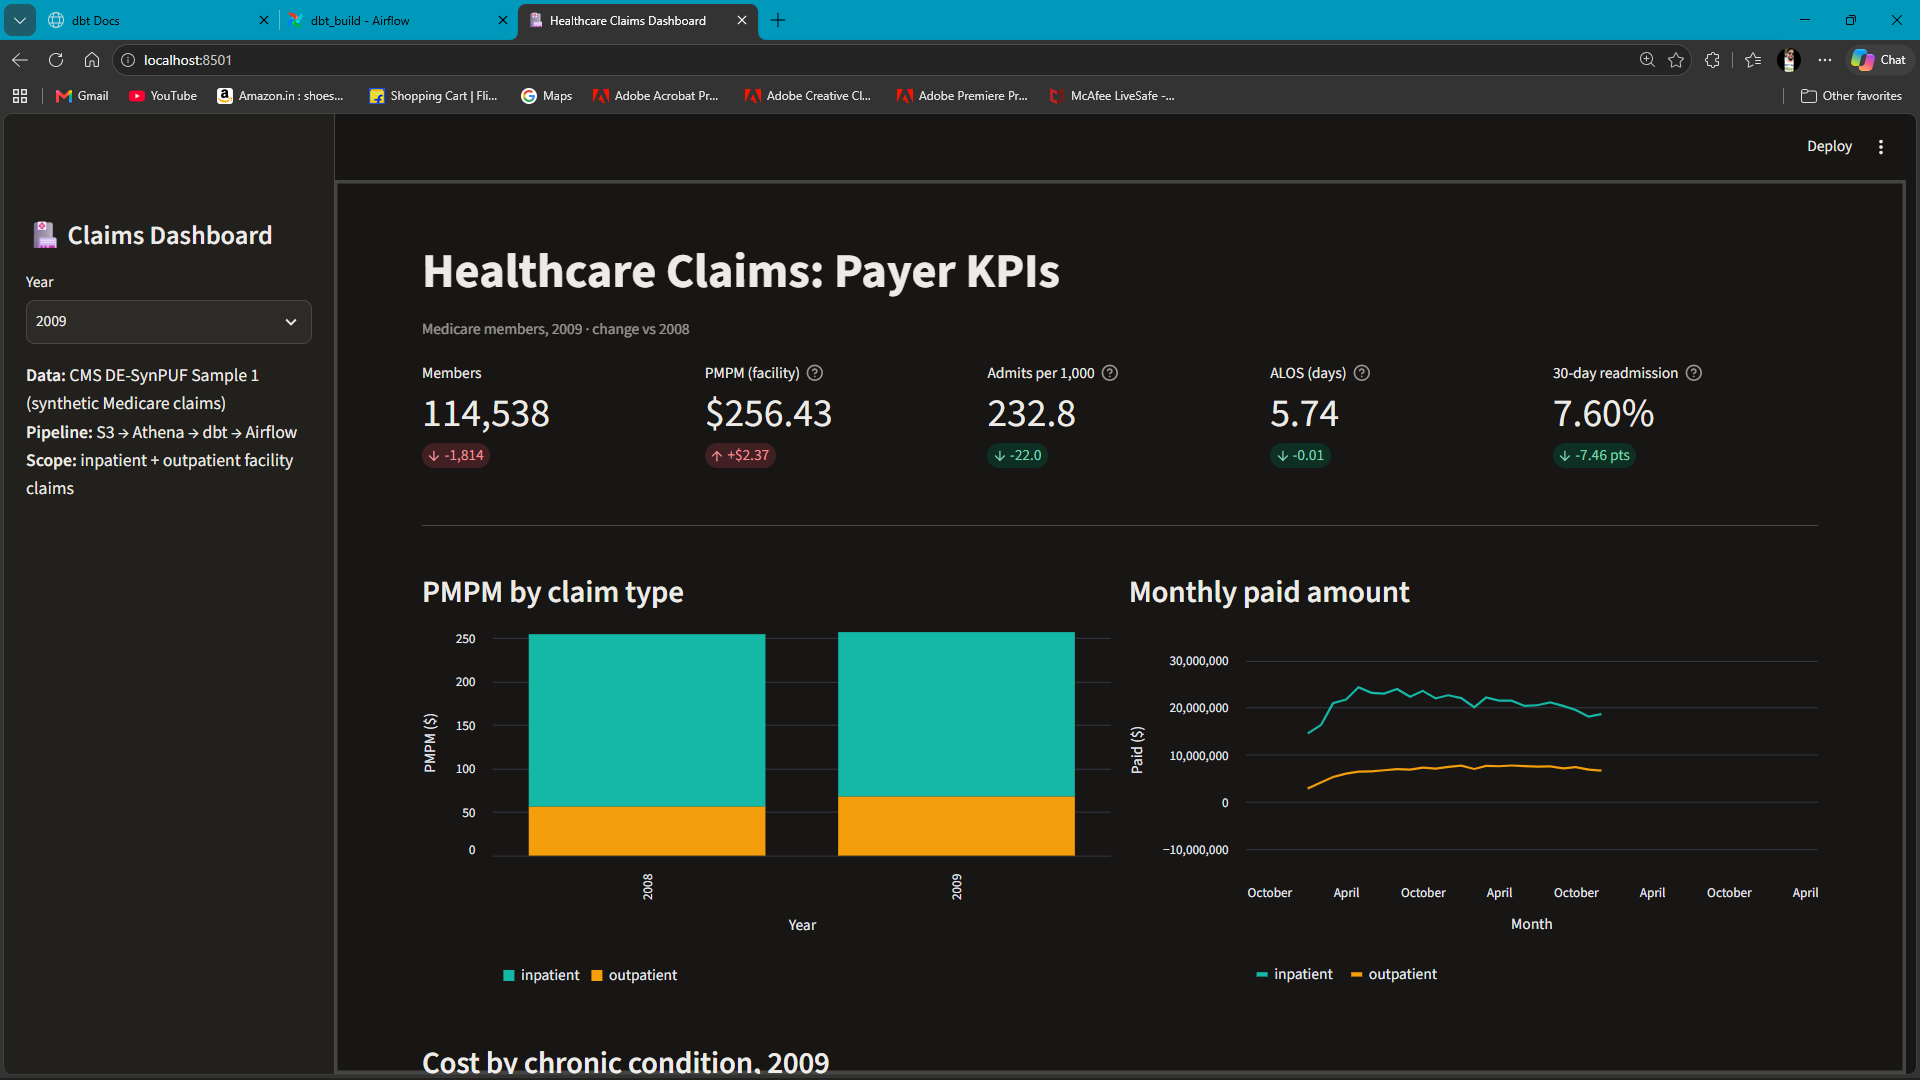
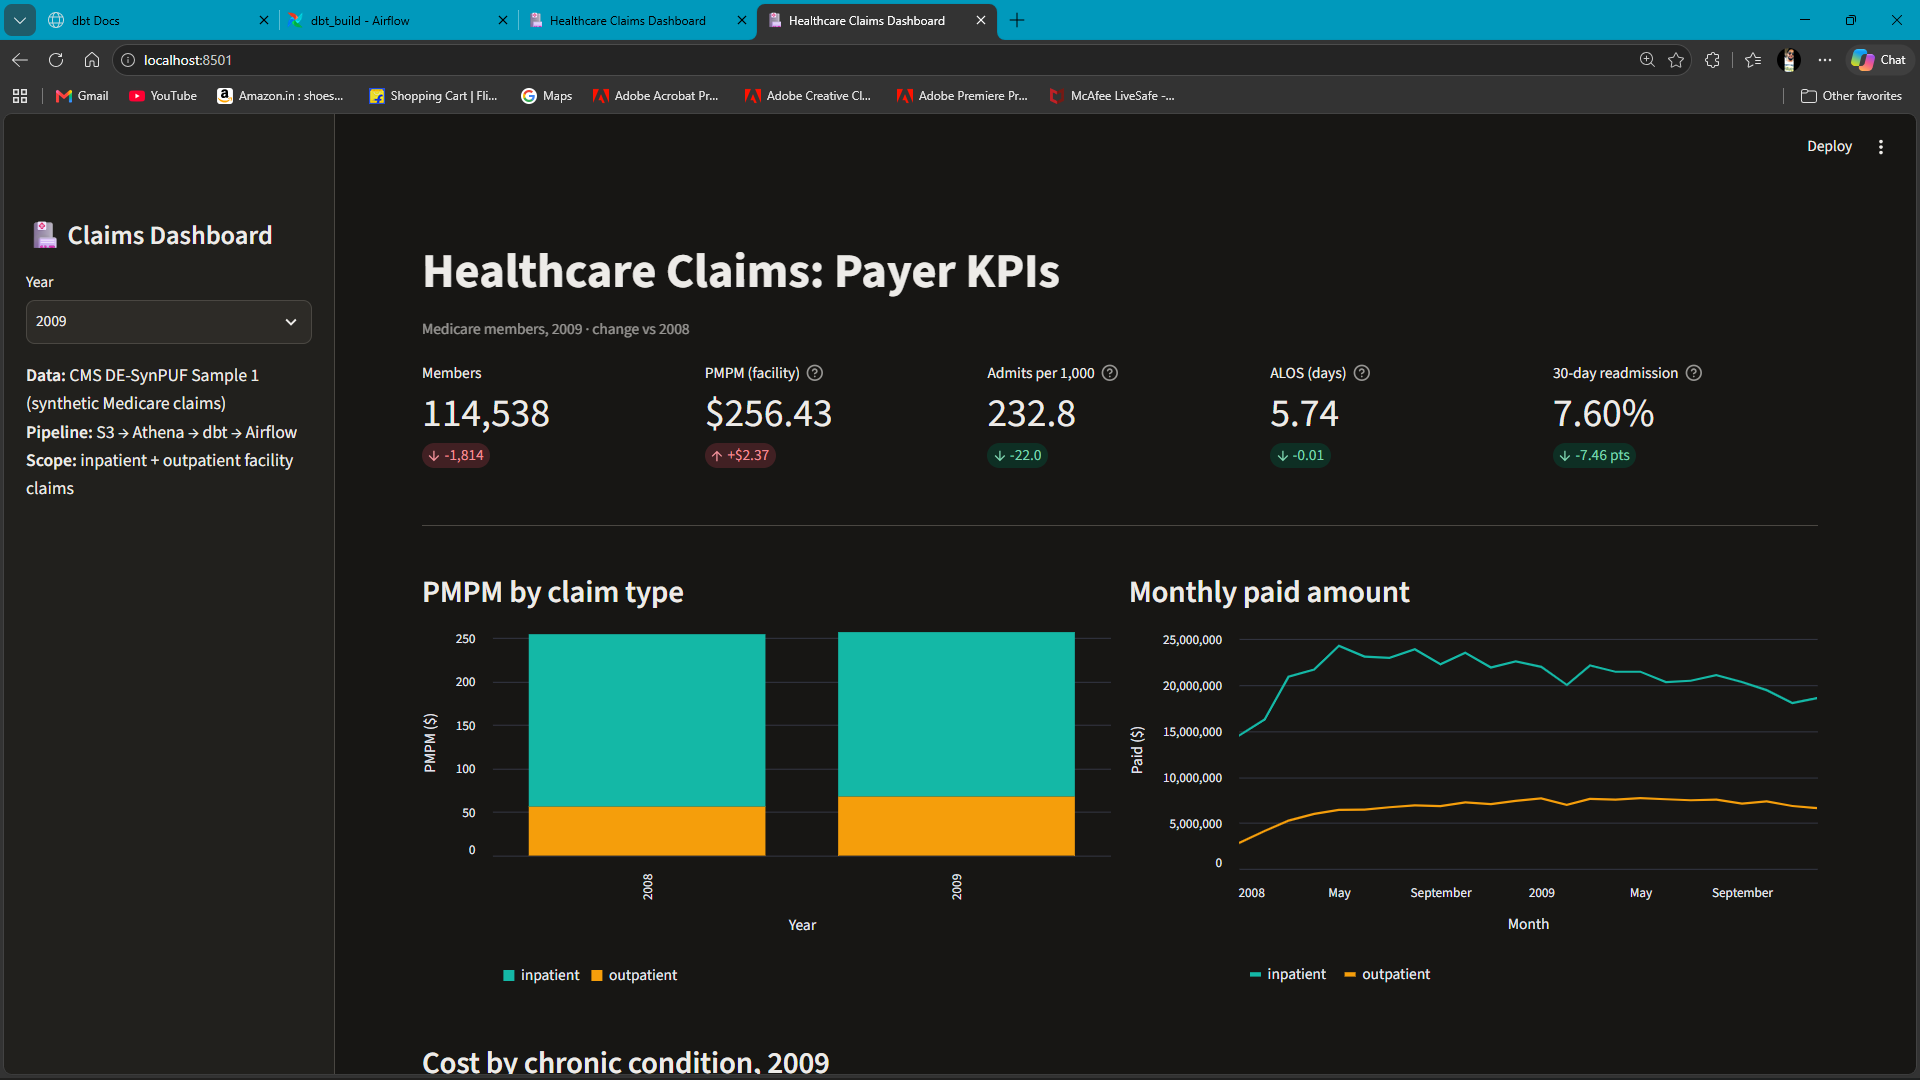
Add project README and refresh dashboard screenshot

diff --git a/README.md b/README.md
@@ -1,0 +1,223 @@
+# Healthcare Claims Pipeline: CMS Medicare claims → S3 + Athena → dbt → Airflow → Streamlit
+
+An end-to-end, payer-side data pipeline. It loads **857,563 synthetic Medicare claims** (CMS DE-SynPUF) into AWS, models them with **dbt** into a tested star schema, computes the KPIs a health plan runs on (**PMPM, admits per 1,000, ALOS, 30-day readmissions, cost by chronic condition and DRG**), orchestrates everything with **Airflow 3**, and serves the results in a **Streamlit** dashboard.
+
+Every layer reconciles to the source files **to the cent**: $863,784,890.00 in, $863,784,890.00 out.
+
+![Claims dashboard](docs/dashboard.png)
+
+## The problem
+
+Health plans (payers) run on claims. Leadership asks the same questions every month:
+
+- What does one member cost us per month (**PMPM**)?
+- How often do members go into hospital (**admits per 1,000**), and for how long (**ALOS**)?
+- How many come back within 30 days (**readmission rate**)?
+- Which chronic conditions and which kinds of hospital stay drive the spending?
+
+The raw data does not answer these directly. The CMS files are plain CSV text, one hospital stay can be billed as several claim rows, some claims have no dates, and member coverage changes month by month. The numbers have to be correct before they are interesting, so this project treats **reconciliation and data-quality checks as first-class features**, not afterthoughts.
+
+## Architecture
+
+```mermaid
+flowchart LR
+    A["CMS DE-SynPUF<br/>zip files"] -->|"Python + requests"| B["Local CSVs<br/>+ answer key"]
+    B -->|"boto3, idempotent"| C[("S3<br/>raw/ (Hive partitions)")]
+    C --> D["Athena<br/>claims_raw<br/>(all STRING)"]
+    D --> E["dbt staging<br/>claims_staging<br/>(views: typed, renamed)"]
+    E --> F["dbt marts<br/>claims_marts<br/>(Parquet star schema)"]
+    F --> G["dbt KPI tables<br/>PMPM, admits/1000,<br/>ALOS, readmissions"]
+    G --> H["Streamlit<br/>dashboard"]
+    I{{"Airflow 3.4<br/>(Docker)"}} -.->|"orchestrates"| B
+    I -.-> C
+    I -.-> D
+    I -.-> F
+```
+
+| Step | Tool | What it does |
+| --- | --- | --- |
+| 1. Download | Python, requests | Downloads 4 CMS zip files, validates them (`PK` header), unzips, and profiles every file into `answer_key.txt`: rows, unique members, unique claim keys, total paid, date range. |
+| 2. Land | boto3, S3 | Uploads to `raw/<dataset>/`, with member files in Hive-style partitions (`raw/beneficiary/year=2008/`). Skips files already in S3 with the same size (`head_object`), so re-runs are safe. |
+| 3. Raw tables | Athena | External tables over the CSVs, **every column as STRING** (OpenCSVSerde). Raw never fails to load, and bad values stay visible. Row counts and paid totals are checked against the answer key. |
+| 4. Staging | dbt (views) | Types dates and money with reusable macros, renames columns to business names, sets the true grain (`claim_id + segment`), and recovers missing dates where another date exists. |
+| 5. Marts | dbt (Parquet tables) | Star schema: `fct_claims`, `fct_inpatient_stays`, `dim_member`, `dim_provider`. |
+| 6. KPIs | dbt (Parquet tables) | `kpi_yearly_summary`, `kpi_cost_by_condition`, `kpi_cost_by_drg`. |
+| 7. Orchestration | Airflow 3.4, Docker | One DAG: download → upload → raw tables → `dbt build`, with retries, timeouts and a monthly schedule. |
+| 8. Dashboard | Streamlit, PyAthena | Reads only the KPI and mart tables, cached for an hour, with year-over-year deltas and the data caveats next to the numbers they affect. |
+
+**dbt lineage** (sources in green, models in blue):
+
+![dbt lineage graph](docs/dbt_lineage_models.png)
+
+## Data
+
+[CMS DE-SynPUF](https://www.cms.gov/data-research/statistics-trends-and-reports/medicare-claims-synthetic-public-use-files/cms-2008-2010-data-entrepreneurs-synthetic-public-use-file-de-synpuf) Sample 1: synthetic Medicare claims built by CMS from real 2008–2010 data, so the structure is realistic but no real patient is in it.
+
+| File | Rows | Columns | Notes |
+| --- | --- | --- | --- |
+| Beneficiary 2008 | 116,352 | 32 | One row per member per year |
+| Beneficiary 2009 | 114,538 | 32 | |
+| Inpatient claims 2008–2010 | 66,773 | 81 | 66,705 unique claim IDs: long stays are split into segments |
+| Outpatient claims 2008–2010 | 790,790 | 76 | 779,815 unique claim IDs |
+
+The 2010 beneficiary file for Sample 1 is not available (the CMS link returns 404). Member-based KPIs therefore cover **2008–2009**. 2010 claims are still used as the follow-up window for late-2009 readmissions.
+
+## dbt models
+
+| Layer | Model | Grain | Built as |
+| --- | --- | --- | --- |
+| Staging | `stg_beneficiary` | member + year | view |
+| Staging | `stg_inpatient_claims` | claim_id + segment | view |
+| Staging | `stg_outpatient_claims` | claim_id + segment | view |
+| Marts | `fct_claims` | claim_type + claim_id + segment | Parquet table |
+| Marts | `fct_inpatient_stays` | one hospital stay (segments combined) | Parquet table |
+| Marts | `dim_member` | member | Parquet table |
+| Marts | `dim_provider` | provider | Parquet table |
+| KPIs | `kpi_yearly_summary` | year | Parquet table |
+| KPIs | `kpi_cost_by_condition` | year + chronic condition | Parquet table |
+| KPIs | `kpi_cost_by_drg` | DRG | Parquet table |
+
+**Testing: 38 tests on 10 models.** A full `dbt build` ends with `PASS=47 WARN=1 ERROR=0` (the one warning is a documented data gap, explained below).
+
+- `unique` and `not_null` on every grain key, `accepted_values` on codes, and `relationships` from every claim to `dim_member`.
+- **A reconciliation chain**, so a dollar cannot be lost between layers:
+  - `assert_staging_matches_answer_key`: staging row counts and paid totals equal the answer key from the source files.
+  - `assert_fct_claims_matches_staging`: the fact table equals staging.
+  - `assert_inpatient_stays_match_claims`: combining segments into stays gives exactly one row per claim ID, with the same total paid.
+- **Threshold tests** for known gaps: warn while the count of undated claims stays at today's level, fail the pipeline if it grows.
+
+![Full dbt lineage including tests](docs/dbt_lineage_full.png)
+
+## Results
+
+### Yearly payer KPIs
+
+| KPI | 2008 | 2009 |
+| --- | --- | --- |
+| Members | 116,352 | 114,538 |
+| Member months | 1,303,587 | 1,300,350 |
+| **PMPM (facility)** | **$254.06** | **$256.43** |
+| PMPM inpatient | $197.95 | $188.78 |
+| PMPM outpatient | $56.11 | $67.65 |
+| Hospital admissions | 27,680 | 25,230 |
+| **Admits per 1,000** | **254.8** | **232.8** |
+| **ALOS (days)** | **5.75** | **5.74** |
+| 30-day readmission rate | 15.06% | 7.60% (see findings) |
+
+- Admits per 1,000 and ALOS fall in the typical Medicare range (about 200–400 and 4–7 days).
+- **PMPM here is facility cost only** (inpatient + outpatient claims). It excludes physician (carrier) and drug (Part D) claims, which is why it is lower than an all-in Medicare PMPM.
+- Inpatient claims are 7.8% of claim rows but **74% of spend**. From 2008 to 2009, spend shifts from inpatient to outpatient.
+
+### Cost by chronic condition (2009)
+
+| Condition | Members with it | PMPM with | PMPM without | × more expensive |
+| --- | --- | --- | --- | --- |
+| Kidney disease | 20.7% | $696.55 | $133.27 | 5.23 |
+| Ischemic heart disease | 47.7% | $428.45 | $82.25 | 5.21 |
+| Diabetes | 41.6% | $455.28 | $100.30 | 4.54 |
+| Heart failure | 34.4% | $494.60 | $120.41 | 4.11 |
+
+Members have several conditions at once, so these multipliers show **association, not cause**, and cannot be added together.
+
+### Reconciliation
+
+| Check | Source (answer key) | Pipeline |
+| --- | --- | --- |
+| Inpatient claim rows | 66,773 | 66,773 |
+| Inpatient paid | $639,260,180.00 | $639,260,180.00 |
+| Outpatient claim rows | 790,790 | 790,790 |
+| Outpatient paid | $224,524,710.00 | $224,524,710.00 |
+| Inpatient stays (unique claim IDs) | 66,705 | 66,705 |
+| Members 2008 / 2009 | 116,352 / 114,538 | 116,352 / 114,538 |
+
+## Data findings: investigated before reporting
+
+| # | Finding | How it was found | What I did |
+| --- | --- | --- | --- |
+| 1 | **Claim ID is not unique.** 66,773 inpatient rows but 66,705 claim IDs: long stays are billed in segments. | Profiling in the download script | Grain set to `claim_id + segment`. Built `fct_inpatient_stays` (one row per stay) so a split stay is not counted as two admissions. |
+| 2 | **68 inpatient claims had no from/thru date.** | A `not_null` test failed; `analyses/check_missing_from_dates.sql` showed both dates blank | Recovered all 68 from the admission and discharge dates (`coalesce`). The test is now strict. |
+| 3 | **11,253 outpatient claims ($15.2M, 1.4%) have no dates at all.** | Same analysis | Kept, so totals still reconcile. Flagged (`is_missing_service_date`), excluded from yearly and monthly KPIs, guarded by a threshold test. |
+| 4 | **Readmissions slide from about 17% to about 5%** over 2008–2009 while admissions stay flat. | A sanity check against typical Medicare rates, then `analyses/readmission_by_month.sql` | A smooth monthly slide, not a step, so it is not a code bug: it comes from how CMS synthesised the data. Documented in the dbt docs and on the dashboard instead of being reported as a finding. |
+| 5 | **DRG spend is nearly flat** (top 10 DRGs about 0.5% of spend each, about $14k per stay). | Sanity check | CMS scrambles DRG codes in SynPUF. The model is correct; the ranking is not meaningful on this data. Documented. |
+| 6 | **Claims before 2008** (from Nov 2007) and a low Jan–Mar 2008 in the monthly trend. | Profiling the date range | Yearly KPIs start from member months, so only 2008 and 2009 are reported. The early-2008 ramp is a period-boundary effect. |
+
+## Design decisions
+
+| Decision | Why |
+| --- | --- |
+| **S3 + Athena** instead of a database server | Serverless and pay-per-query: no cluster to run or pay for while idle. SQL directly over files in S3. |
+| **Raw tables are all STRING** | Loading never fails on a bad value. Typing happens in dbt staging, where failures become visible, tested and fixable. |
+| **Staging as views, marts as Parquet tables** | Staging is a thin, always-current layer. Marts are read repeatedly by the dashboard, so they are computed once and stored in a columnar format that Athena scans cheaply. |
+| **Reusable macros** (`parse_date`, `to_amount`) | One definition of "how a CMS date or amount is parsed", used in every model. |
+| **A separate stays fact** | Admissions, length of stay and readmissions are about stays, not billing segments. Different question, different grain. |
+| **PMPM divides by member months** | A member covered for 6 months counts as 6, not 12, so years and groups compare fairly. |
+| **Readmissions with `LEAD()`** | For each stay, the same member's next admission; readmitted when it is 0–30 days after discharge. |
+| **Least-privilege IAM** | A dedicated `claims` user. Glue permissions are scoped to `claims*` databases only. No keys in code or in Git. |
+| **Airflow with LocalExecutor, 4 containers** | The official setup uses Celery + Redis across 8 containers, which is unnecessary for one machine. |
+| **dbt in its own virtualenv inside the Airflow image** | Airflow and dbt depend on many of the same libraries at different versions. Keeping them apart avoids conflicts. |
+| **AWS credentials mounted read-only** into Airflow | Keys are never copied into the image or the repository. |
+| **Idempotent tasks + retries** | Re-running skips work already done (the upload step takes under a second when S3 is current), so a retry never duplicates data. |
+| **Business logic in dbt, not the dashboard** | Every KPI is defined and tested once in the warehouse. The dashboard only displays it. |
+
+## Orchestration
+
+![Airflow DAG](docs/airflow_dag.png)
+
+A manual run of the full pipeline in Airflow took **1 min 30 s**, with every task succeeding on its first try:
+
+| Task | Duration | Note |
+| --- | --- | --- |
+| `download_cms_data` | 11 s | Files already present, so it re-validates and re-profiles |
+| `upload_to_s3` | 0.7 s | All 4 files already in S3 with the same size, so all skipped |
+| `create_athena_raw_tables` | 20 s | Rebuilds raw tables and re-checks them against the answer key |
+| `dbt_build` | 55 s | 10 models + 38 tests |
+
+![Airflow run](docs/airflow_run.png)
+
+## Problems found and fixed
+
+- **dbt-athena would not install on Python 3.14**: a dependency (`mmh3`) needed a C compiler. Fixed by running dbt in a separate Python 3.12 environment.
+- **`AccessDenied: glue:GetTableVersions`** on the first `dbt run`: the IAM user only had what the Python scripts needed. Fixed with an inline policy scoped to the `claims*` Glue databases.
+- **A one-letter typo (`mart:` instead of `marts:`)** in `dbt_project.yml` made dbt silently build the marts as views in the wrong database. Caught from dbt's "unused configuration paths" warning; fixed, and the stray views dropped.
+- **Port clashes on Windows**: a local Mirth Connect install holds 8080, so dbt docs run on 8081 and Airflow on 8082.
+- **Airflow 3 task authentication**: running tasks report back to the API server, so every component needs the same JWT secret. Set explicitly in the compose file.
+
+## Repository layout
+
+```
+ingestion/download_data.py        download, validate, unzip, profile -> answer key
+ingestion/upload_to_s3.py         idempotent upload to S3 with Hive-style partitions
+athena/create_raw_tables.py       Athena raw tables + checks against the answer key
+athena/*.sql                      the generated raw-table DDL
+claims_dbt/models/staging/        3 staging views + sources + tests
+claims_dbt/models/marts/          fact and dimension tables + tests
+claims_dbt/models/marts/kpis/     KPI tables
+claims_dbt/macros/                parse_date, to_amount
+claims_dbt/tests/                 reconciliation tests
+claims_dbt/analyses/              the data-quality investigations
+airflow/                          Dockerfile, docker-compose.yml, dags/claims_pipeline.py
+dashboard/app.py                  Streamlit dashboard
+docs/                             screenshots used in this README
+```
+
+## How to run it
+
+**Prerequisites:** an AWS account, the AWS CLI with a profile named `claims` (an IAM user with S3, Athena and Glue access), Python 3.12, and Docker Desktop. Replace the bucket name `chhatraband-claims-pipeline` with your own in `ingestion/upload_to_s3.py`, `athena/create_raw_tables.py`, `claims_dbt/profiles.yml` and `dashboard/app.py`.
+
+1. **Ingest:** `python -m venv .venv`, activate it, `pip install -r requirements.txt`, then run `python ingestion/download_data.py`, `python ingestion/upload_to_s3.py` and `python athena/create_raw_tables.py`.
+2. **Transform:** create a second environment (`py -3.12 -m venv .venv-dbt`), `pip install -r requirements-dbt.txt`, then from `claims_dbt/` run `dbt build`. Optionally `dbt docs generate` and `dbt docs serve --port 8081`.
+3. **Orchestrate:** from `airflow/`, run `docker compose build`, `docker compose up airflow-init`, then `docker compose up -d`. Open http://localhost:8082 (login `airflow` / `airflow`), unpause `claims_pipeline` and trigger it.
+4. **Dashboard:** create a third environment (`py -3.12 -m venv .venv-dash`), `pip install -r requirements-dashboard.txt`, then `streamlit run dashboard/app.py` and open http://localhost:8501.
+
+## What I'd add next
+
+- **Incremental models** and partitioning `fct_claims` by service year, so monthly loads only process new data.
+- **DRG and diagnosis names** as dbt seeds, and ICD-9 diagnoses grouped into clinical categories.
+- **Physician (carrier) and Part D drug claims**, for an all-in PMPM.
+- **Risk adjustment** (HCC scores), so cost can be compared fairly across sicker and healthier members.
+- **CI with GitHub Actions**: run `dbt build` against a dev schema on every pull request.
+- **Event-driven scheduling**: trigger the DAG when new files land in S3, instead of a fixed monthly schedule.
+
+## Data note
+
+All data is the CMS DE-SynPUF **synthetic** dataset. No real patient information is used, and the `data/` folder is excluded from the repository.
